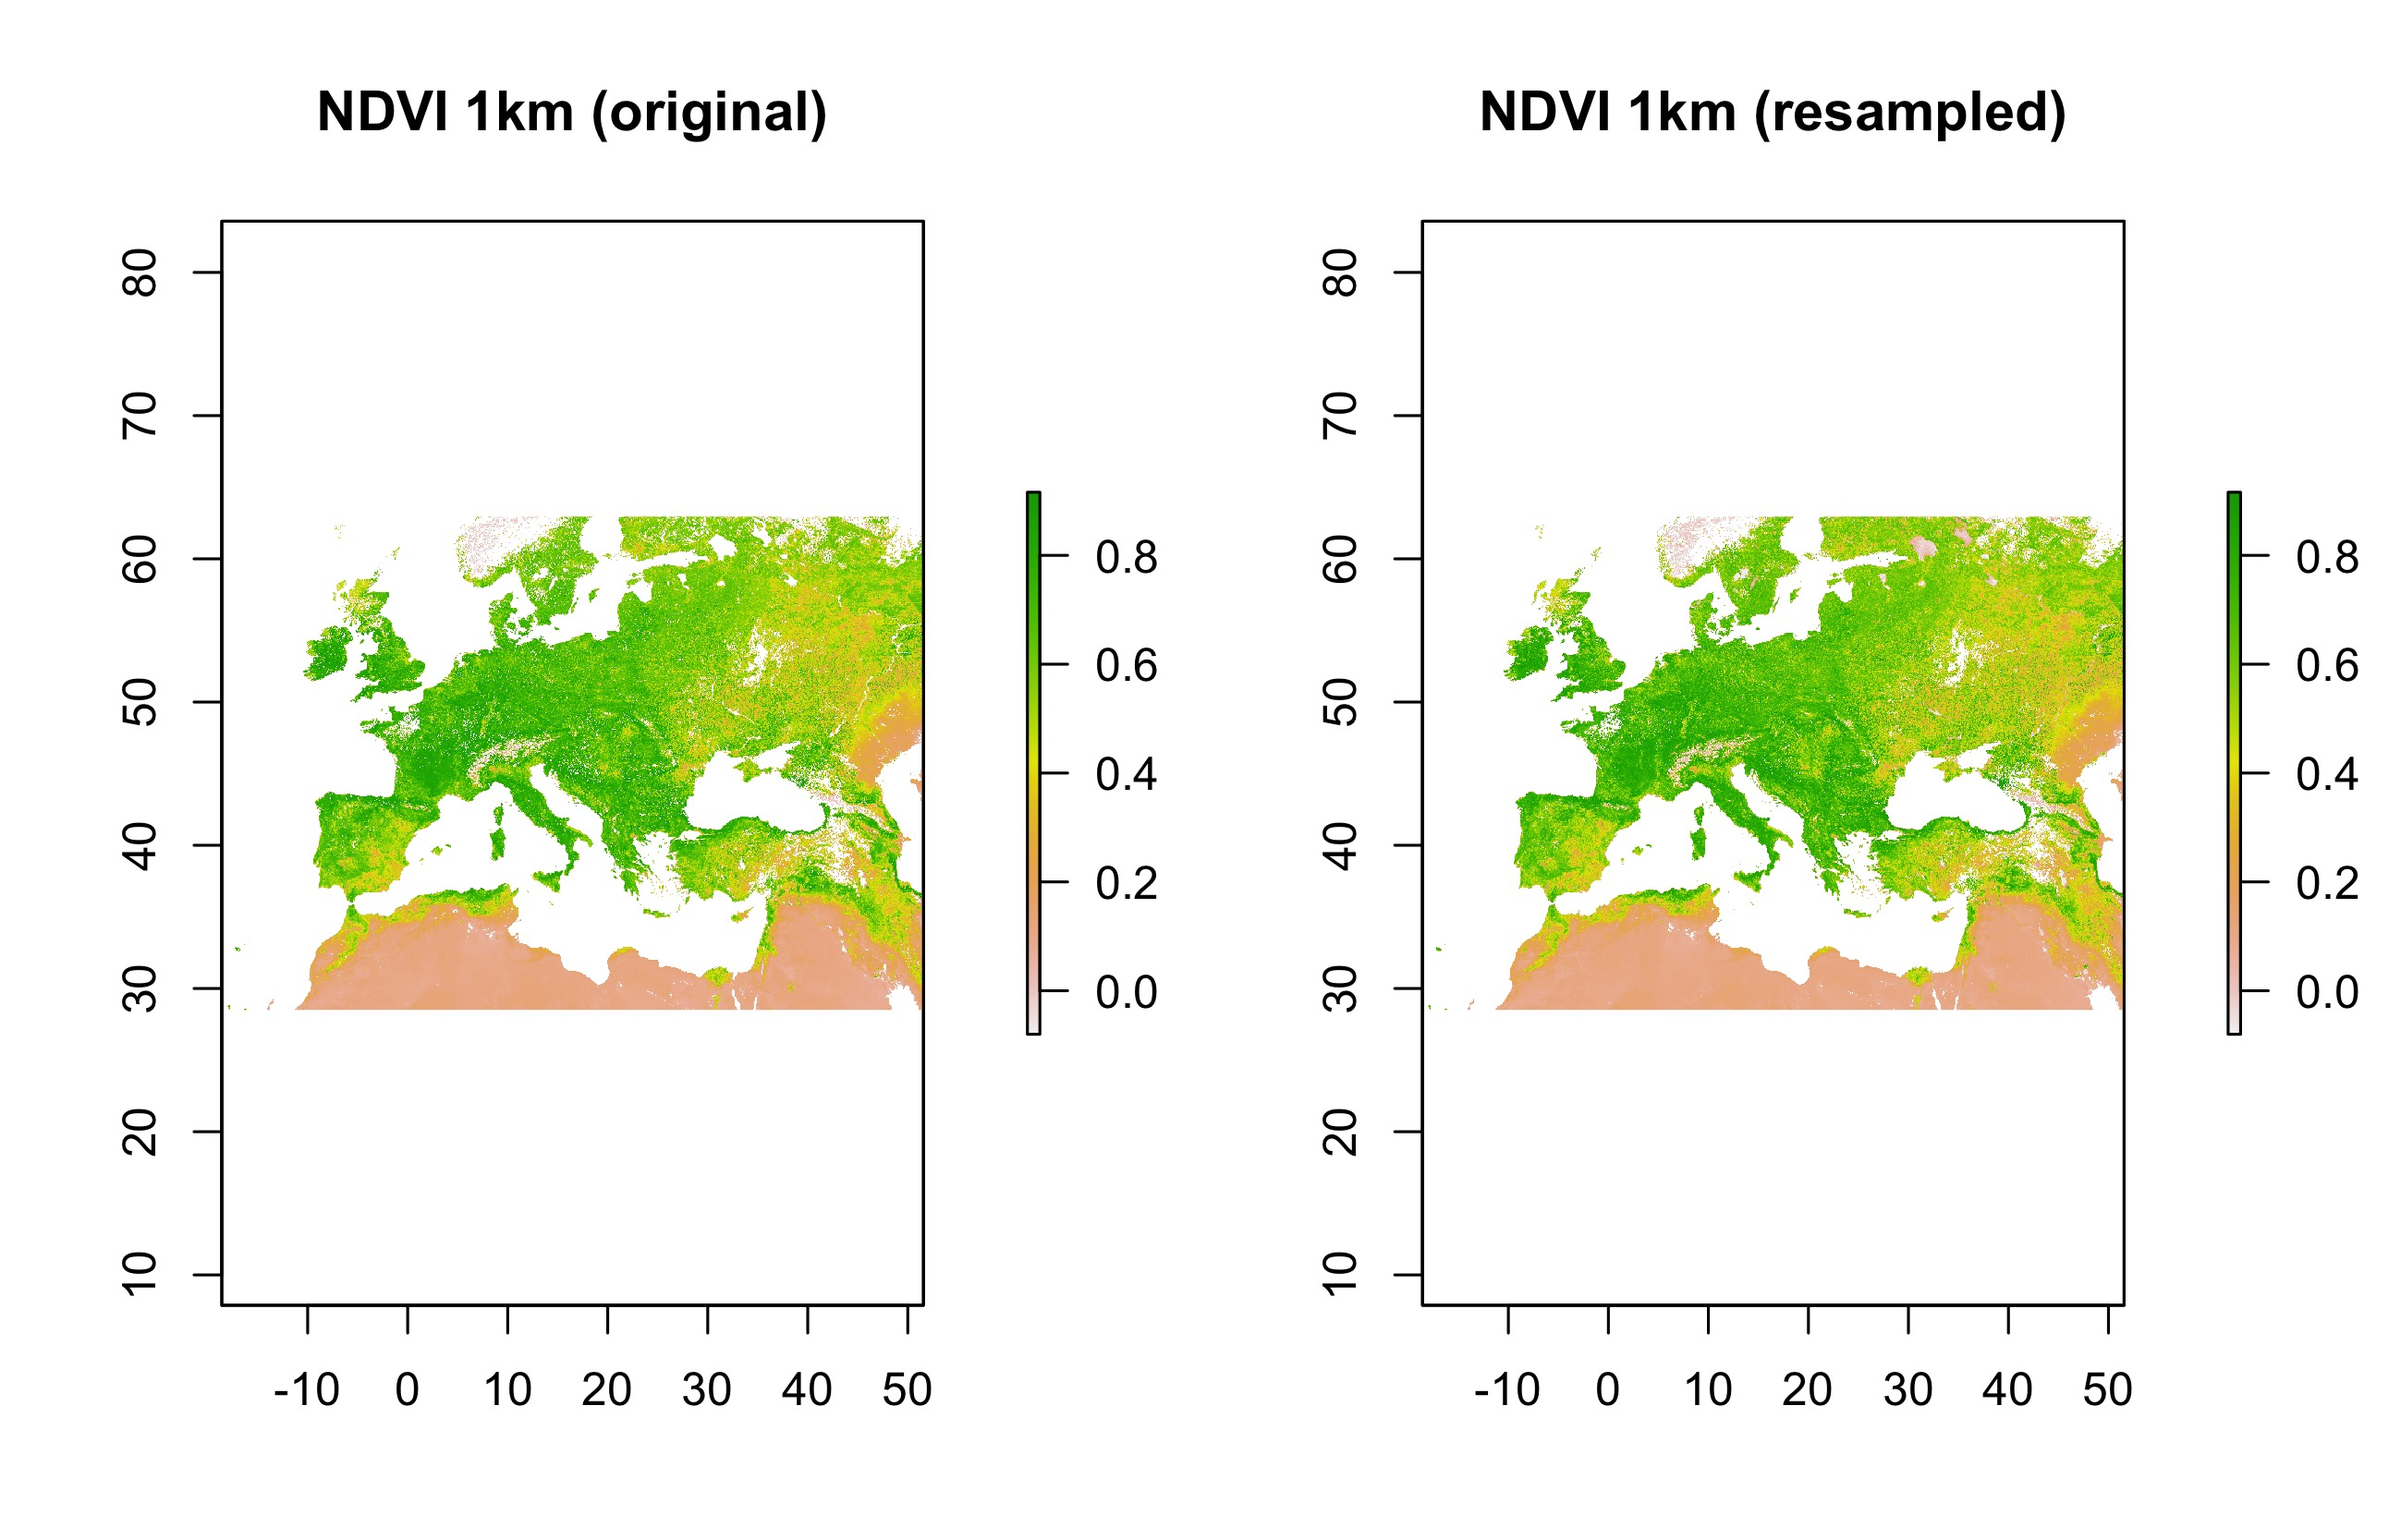
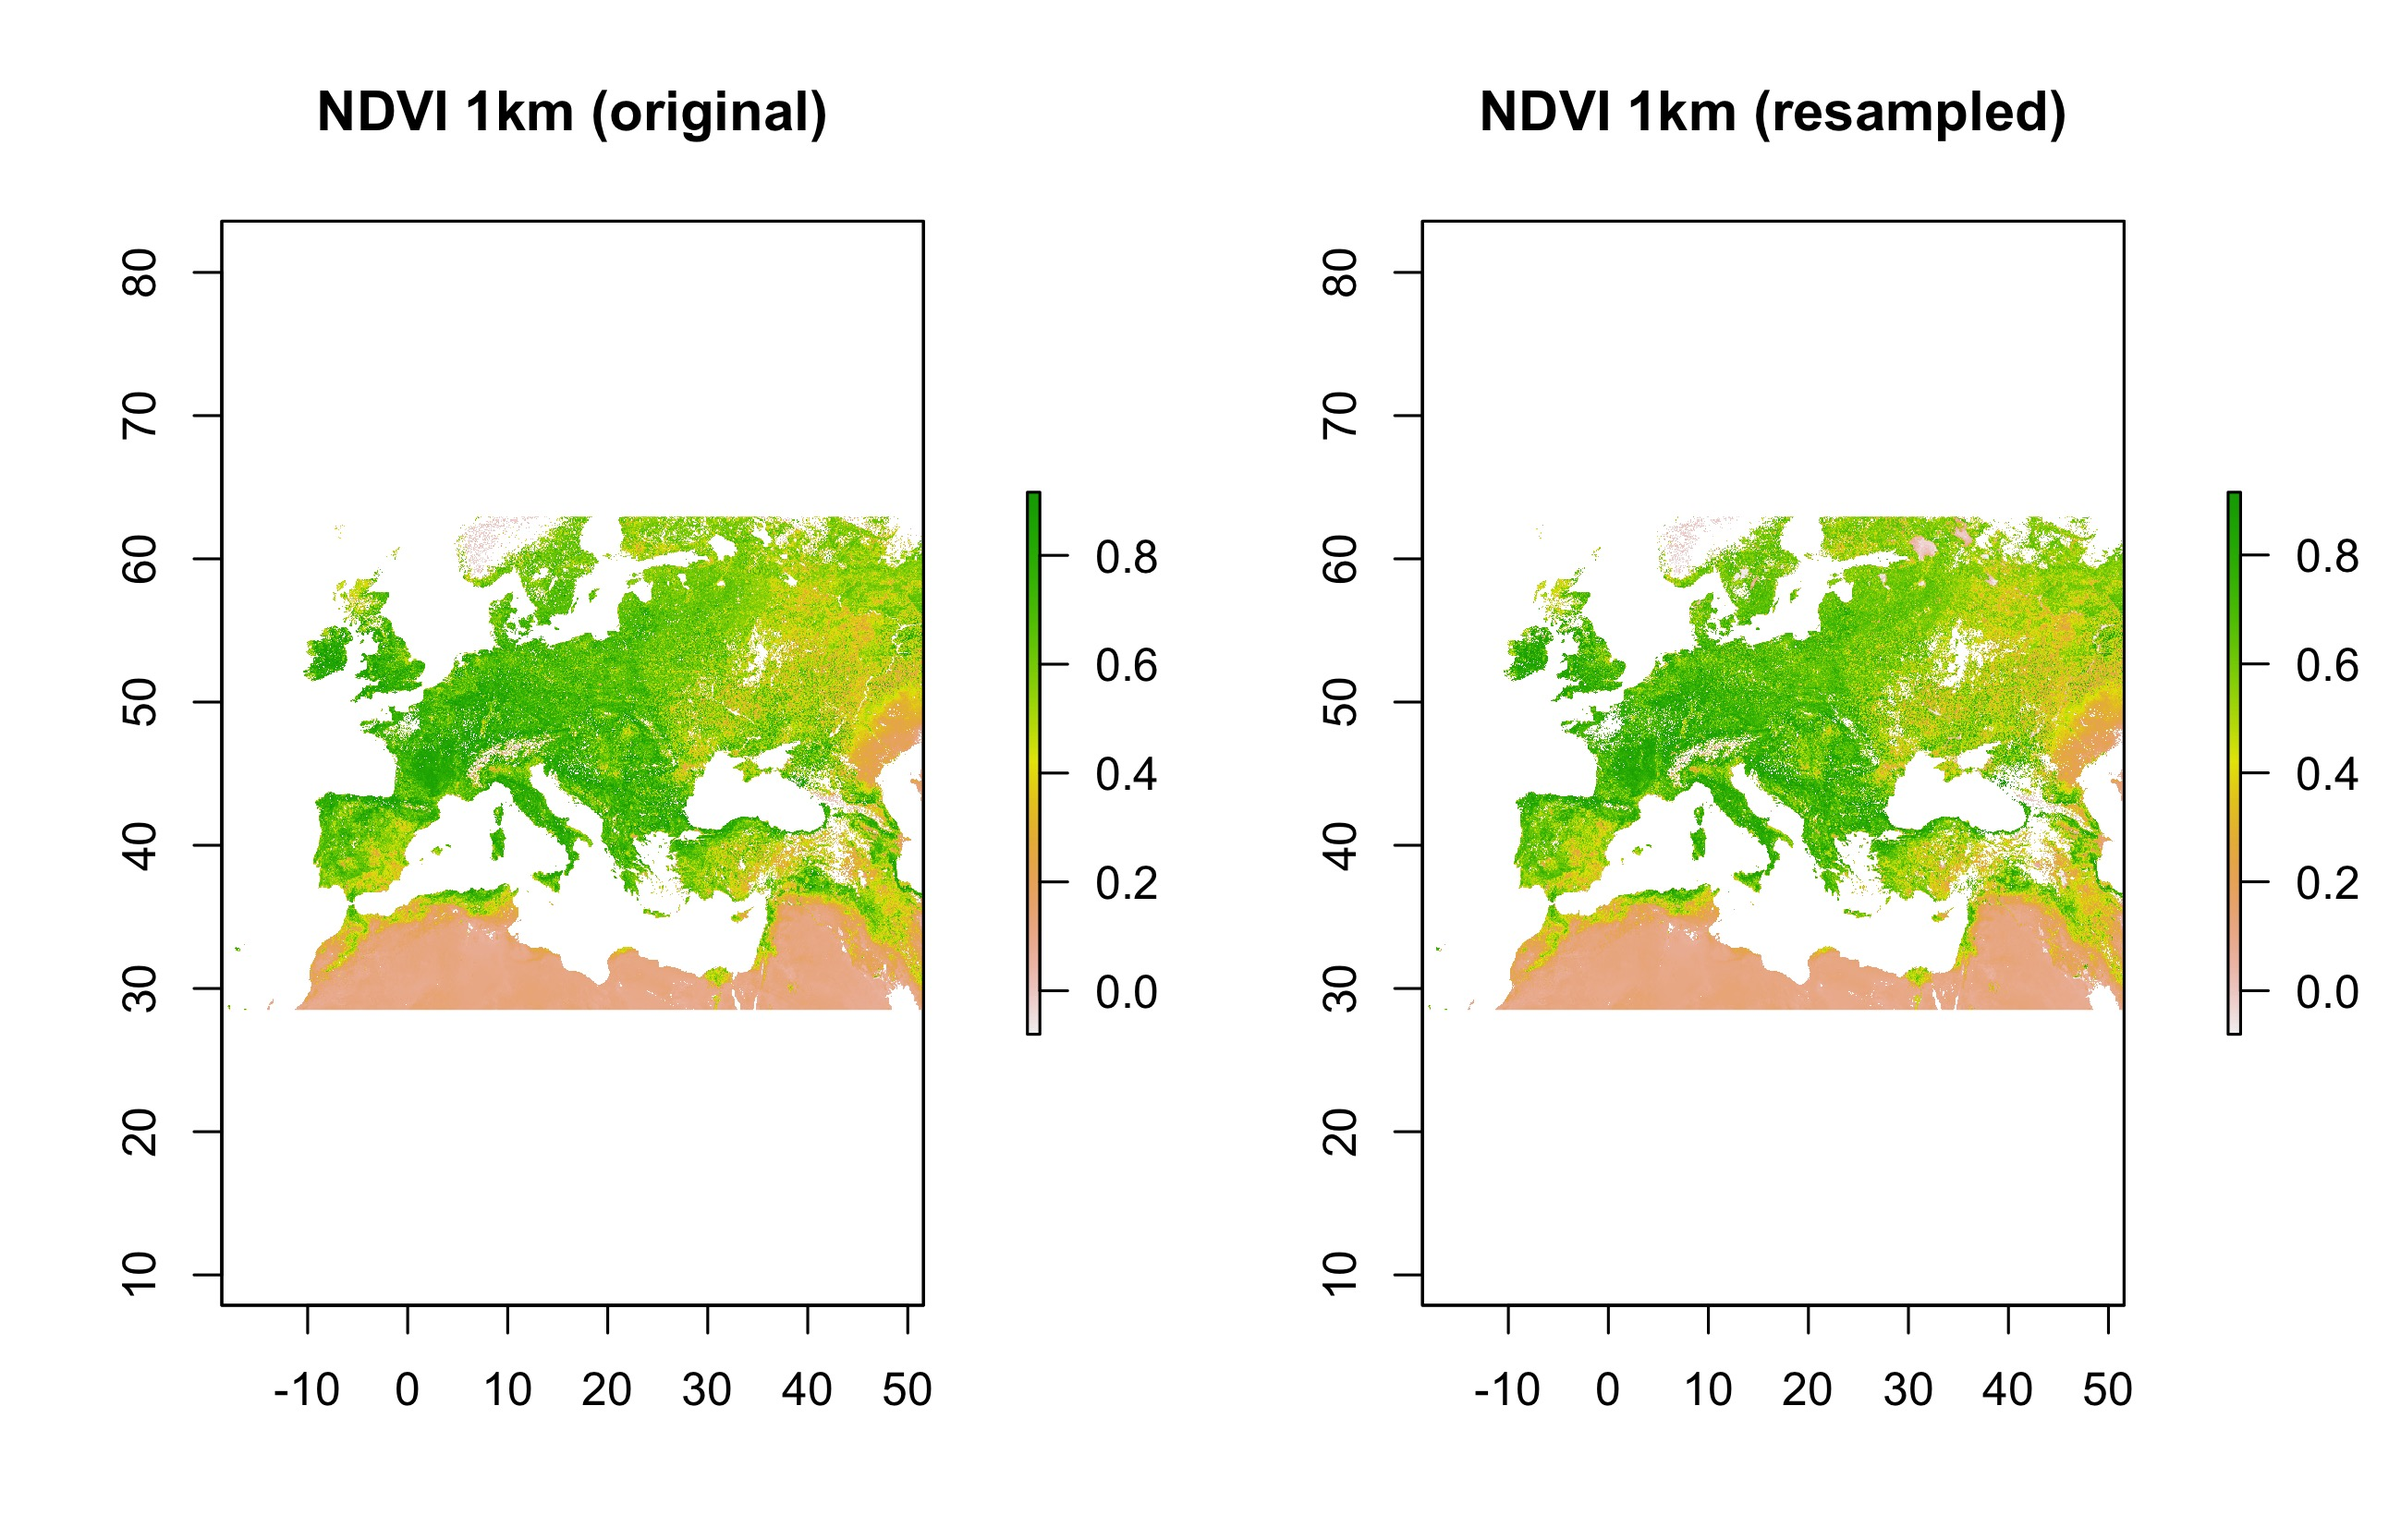
readMe

diff --git a/README.md b/README.md
@@ -1,0 +1,17 @@
+# Copernicus Global Land Service Resampling Tool Using R: A Resample Exercise
+
+The Copernicus Global Land Service ([CGLS](https://land.copernicus.eu/global/)) vegetation-related products (i.e. NDVI, LAI, FAPAR...), based on PROBA-V observations, have been distributed at 1km and 333m until June, 2020. However, as of July, 2020, all Near Real Time (NRT) production of the vegetation biophysical variables, based on Sentinel-3 observations, are no longer provided at 1km resolution. Nonetheless, the users who might be interested on continuing their 1km time series can use a resample of the new 333m products.
+
+The science and production teams of the CGLS, in support to the 1km users, provide different tools to make their own resampling exercises from the new 333m products to a 1km resolution, corresponding to the usual 1km grid. A Notebook with R code and some explanations on how to make a resample can be found [here](https://nbviewer.jupyter.org/github/VITObelgium/notebook-samples/blob/master/datasets/probav/ResampleTool_R_notebook.ipynb).
+
+In this repository some R scripts and a report with results can be found on a comparison made of different resampled products using this R-based tool with the original CGLS products at 1km resolution for different areas. In addition, a comparison with the results obtained with another tool (QGIS/Python-based) is also provided.
+
+### Content:
+
+* NDVI - Europe/North Africa: Resmapled with R-tool vs original 1km product
+* NDVI-Europe/North Africa: Resmapled with QGIS/Python-tool vs original 1km product
+* NDVI-Europe/North Africa: Resmapled with R-tool vs resmapled with QGIS/Python-tool
+* LAI - Europe/North Africa: Resmapled with R-tool vs original 1km product
+* LAI - Amazonia: Resmapled with R-tool vs original 1km product
+
+
